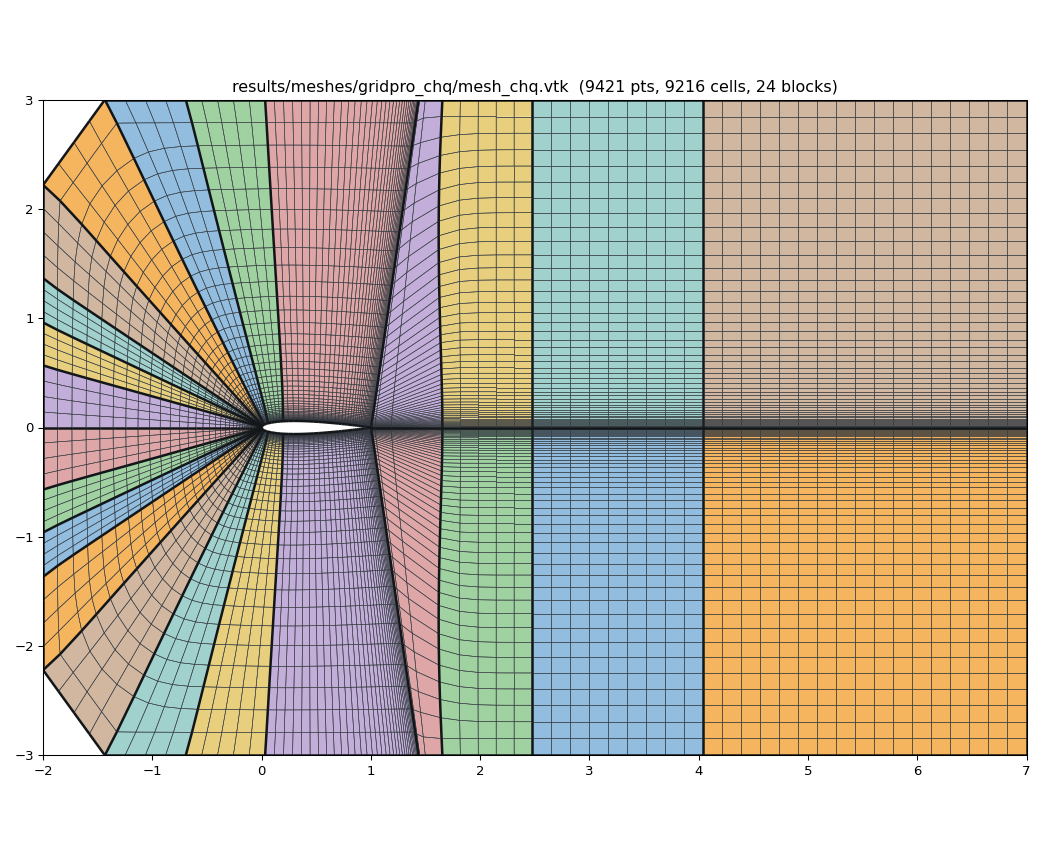
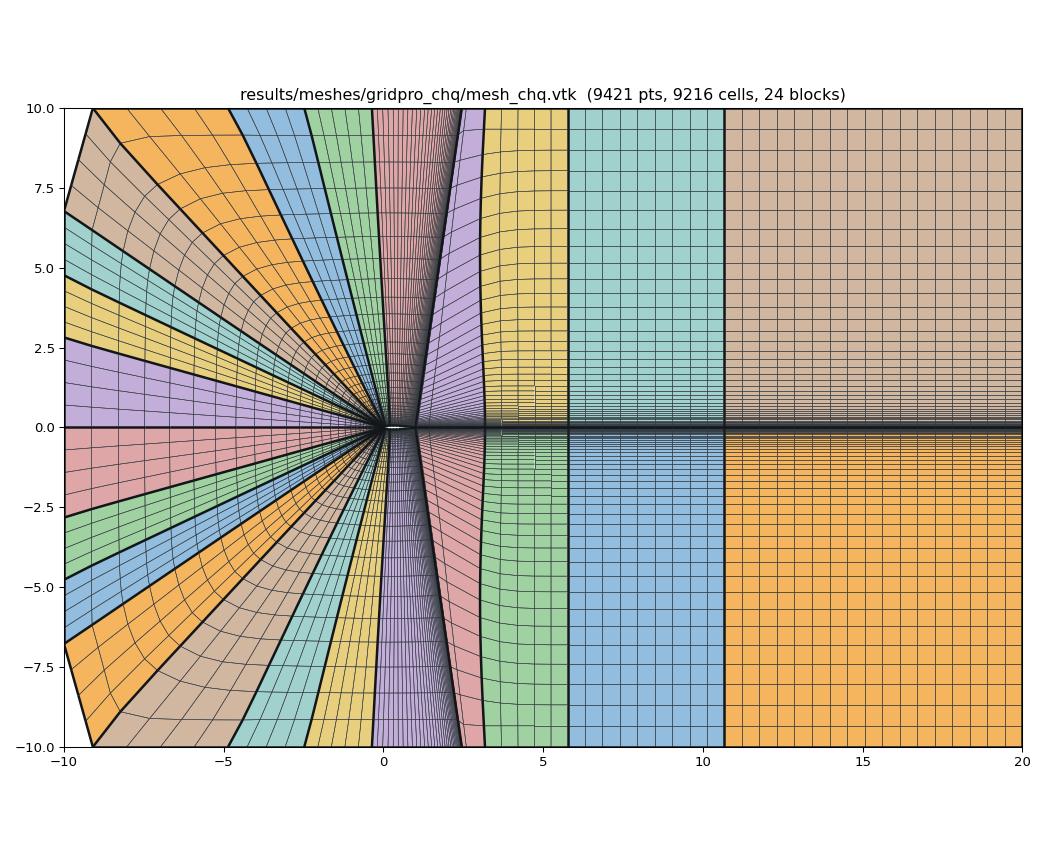
docs: gate 2 on the C/H -- it does not NaN (section 14)
Section 13 was gate 1. The multiblock rule file records that on this repo's
C-grid gate 2 is the one that bit: zero inverted cells on the first run of the
shipped declaration, and the solver then went to NaN in 40 iterations. So the
C/H was run, with the shipped multiblock_cgrid_demo as a control because "the
solver runs" is only worth quoting against something.

It does not NaN. Ten thousand iterations, exit 0, and nothing non-finite in the
solution, the residual history or the surface quantities -- same at 100 and
2000. #57's operating point throughout (laminar NS, M 0.2, Re 200, zero
incidence, cfl 0.6), and since #91 the headless runner derives the .bc.def from
the mesh's own patches, so nothing was hand-edited and the flags come out the
same as the control's: the two aerofoil segments no-slip wall, everything else
non-reflecting. The mesh is the only difference between the runs.

One false positive is recorded so it is not re-found: work/tWall_values.dat.cli
contains the literal NAN in both runs, three fields of its third row. It is a
property of that output file and not of either solve -- the control has it too,
and the control is the run the rule file already records as passing.

The residual does stall. The control descends two orders and holds near 3e-06;
the C/H stops descending after about a thousand iterations and oscillates in a
band about 30x above that, flat over 9000 iterations and never non-finite. Half
[…]

diff --git a/docs/research/gridpro-blocking-method/make_ch.py b/docs/research/gridpro-blocking-method/make_ch.py
@@ -51,7 +51,10 @@ from make_rings import (read_body, arc_table, at_fraction, te_rays,   # noqa: E4
 BODY = "examples/geometries/naca0012_cgrid.dat"
 BODY_NAME = "naca0012_cgrid.dat"
 
-XI, XO, YF = -2.0, 7.0, 3.0     # the far-field rectangle, in chords
+XI, XO, YF = -10.0, 20.0, 10.0  # the far-field rectangle, in chords -- the
+                                # SAME extent as the shipped C-grid case's D,
+                                # because at Re 200 a 9 x 6 box cuts through the
+                                # viscous region and the solve stalls (13g)
 DS_SURF = 0.005                 # the shipped C-grid's surface clustering
 WAKE_GROWTH = 1.9
 CURVED = True                   # radials as the arc that leaves perpendicular               # how fast the wake's own stations spread aft
@@ -413,10 +416,14 @@ def main():
     ap.add_argument("--chord-radials", action="store_true",
                     help="radials as straight chords between their two corners "
                          "instead of the arc that leaves perpendicular")
+    ap.add_argument("--domain", nargs=3, type=float, metavar=("XI", "XO", "YF"),
+                    help="the far-field rectangle, in chords")
     ap.add_argument("--out", default="gridpro_ch.json")
     args = ap.parse_args()
-    global CURVED
+    global CURVED, XI, XO, YF
     CURVED = not args.chord_radials
+    if args.domain:
+        XI, XO, YF = args.domain
     te, rays, sector, blen, topo = build(args.split, args.wake)
     nb = len(topo["blocks"])
     hdr = [

diff --git a/docs/research/gridpro-blocking-method.md b/docs/research/gridpro-blocking-method.md
@@ -121,6 +121,12 @@ entry 2 named `sp.gridpro.com/docs/WS_10.0_Tutorials.zip` as unreachable, and th
 > found on the way are in §13c, including one where **GridPro's own equal-bisection rule
 > cannot be used** — its trailing-edge ray lands behind the next station's and the radials
 > cross.
+>
+> **§14 then put it through the SOLVER — gate 2, the one that bit on this repo's C-grid.** It
+> does **not NaN**: 10000 iterations, exit 0, nothing non-finite, against the shipped C-grid
+> run identically as a control. Its residual does STALL about 30× above the control's floor,
+> and half of that was the domain being too small at Re 200 — measured, 2e-04 at 9×6 chords
+> against 5e-05 at 30×20.
 
 | GridPro | this repo |
 |---|---|
@@ -1680,17 +1686,24 @@ forward along it to the trailing edge, round the lower surface to the nose, back
 upper surface to the trailing edge, and out along the wake to the outlet ABOVE it. **Every
 wake edge is met twice and is ONE edge both times** — that is what makes it a cut and not two
 coincident walls — and the trailing edge is one node on five edges where four blocks meet.
-The eta lines run from that C out to a RECTANGLE (`x ∈ [-2, 7]`, `y ∈ [±3]`).
+The eta lines run from that C out to a RECTANGLE. **Its extent is `x ∈ [-10, 20]`,
+`y ∈ [±10]`, the SAME as the shipped C-grid case's D**, and that is not cosmetic: §14 ran the
+solver on both sizes and a 9 × 6 box at Re 200 cuts through the viscous region and stalls the
+residual four times higher. `--domain XI XO YF` moves it.
 
 Nothing wraps round the front, so the lines leaving the nose point **at the inlet** and the
 lines leaving the wake point at the top and bottom. That is §12a's fig6, and it is a property
 of the topology rather than of any tuning.
 
 ```
-cells=18432 inverted=0 nonortho_max=54.793 nonortho_mean=4.304
-quad_midline_ratio_median=2.648 p95=24.393  adjacent_area_ratio_max=7.813
-wall first cell: 0.09% worst on the BODY, 5.95% worst counting the far-field edges
+cells=18432 inverted=0 nonortho_max=61.529 nonortho_mean=3.908
+quad_midline_ratio_median=3.505 p95=53.608  adjacent_area_ratio_max=14.180
+wall first cell: 0.09% worst on the BODY, 15.72% worst counting the far-field edges
 ```
+
+At the 9 × 6 box §13c was developed on — `--domain -2 7 3`, the extent the O-ring cases' own
+far field is closest to — the same document measures **54.793 / 4.304 / 2.648 / 7.813**, which
+is the row §13e compares with. Both are in the table there.
 
 ### 13b. The map that makes it streamwise: a station's own NORMAL, cast **[V]**
 
@@ -1747,24 +1760,31 @@ the one place where two different parts of the walk have to agree about the same
 
 ### 13d. The figures **[V]**
 
-`gridpro_ch_full.png` and `gridpro_ch_te.png`, rendered as QUADS for §11a's reason. The
+`gridpro_ch_full.png` (the whole 30 × 20 domain) and `gridpro_ch_te.png` (the body and the
+near wake), rendered as QUADS for §11a's reason. `gridpro_ch_M.png` is §14's Mach field. The
 downstream half is a streamwise lattice, the upstream half points at the inlet, the wake is a
 thin band along `y = 0`, and the far field is a rectangle the grid is aligned to — which is
 what §12a set out to reproduce.
 
 ### 13e. Against everything before it **[V]**
 
-| | §8: 14 blk | §10: 58 blk, 3 rings | §11: 38 blk, 2 rings | §13: 24 blk, C/H |
-|---|---|---|---|---|
-| cells | 17408 | 17408 | 17408 | 18432 |
-| inverted | 0 | 0 | 0 | 0 |
-| worst non-orthogonality | 59.856° | 55.277° | **48.095°** | 54.793° |
-| mean non-orthogonality | 12.307° | 9.552° | 7.137° | **4.304°** |
-| cell shape, median | 2.751 | 2.801 | 2.818 | **2.648** |
-| worst adjacent area ratio | 11.713 | 12.565 | 14.149 | **7.813** |
-| worst wall first cell, BODY only | 0.01% | 0.01% | 0.01% | 0.09% |
-| worst wall first cell, ALL wall edges | **0.0139%** | 0.0111% | 0.106% | 5.95% |
-| far field | D of the tutorial's circle | circle | circle | **rectangle** |
+| | §8: 14 blk | §10: 58 blk, 3 rings | §11: 38 blk, 2 rings | §13: C/H, 9×6 box | §13: C/H, SHIPPED 30×20 |
+|---|---|---|---|---|---|
+| cells | 17408 | 17408 | 17408 | 18432 | 18432 |
+| inverted | 0 | 0 | 0 | 0 | 0 |
+| worst non-orthogonality | 59.856° | 55.277° | **48.095°** | 54.793° | 61.529° |
+| mean non-orthogonality | 12.307° | 9.552° | 7.137° | 4.304° | **3.908°** |
+| cell shape, median | 2.751 | 2.801 | 2.818 | **2.648** | 3.505 |
+| worst adjacent area ratio | 11.713 | 12.565 | 14.149 | **7.813** | 14.180 |
+| worst wall first cell, BODY only | 0.01% | 0.01% | 0.01% | 0.09% | 0.09% |
+| worst wall first cell, ALL wall edges | **0.0139%** | 0.0111% | 0.106% | 5.95% | 15.72% |
+| far-field extent, chords | 30 × 20 | 6 × 6 | 6 × 6 | 9 × 6 | 30 × 20 |
+| far field | D of a circle | circle | circle | **rectangle** | **rectangle** |
+
+**The two C/H columns are the same document at two domain sizes**, and only the right-hand one
+is shipped — §14 is why. The middle one is the fair comparison with §§9-11, whose far field is
+the tutorial's r = 3 circle; the §8 column's own far field is already 30 × 20, so it is the
+right-hand C/H column that is comparable with IT.
 
 **The cell counts are not equal** — 18432 against 17408, 5.9% more — because the C/H's station
 law is derived rather than dialled, and the nearest settings either side came out at 17088
@@ -1788,6 +1808,89 @@ this note the answer has not been the O-ring.**
 diverges at sweep 13, so every line here is placed by a declaration rather than solved for.
 Everything else §§9-12 listed as different — the far field's shape, the streamwise lattice, the
 wake band, the block count being in the right range — is now reproduced.
+
+---
+
+## 14. GATE 2: the C/H through the solver
+
+§13 is gate 1 — it meshes, 0 inverted. `.claude/rules/mesher-multiblock.md` records that on
+this repo's C-grid **gate 2 is the one that bit**: zero inverted cells on the first run of the
+shipped declaration, and the solver then went to NaN in 40 iterations. So the C/H was run.
+2026-11-06.
+
+**It does not NaN.** Ten thousand iterations, exit 0, and no NaN or Inf anywhere in the
+solution, the residual history or the surface quantities.
+
+### 14a. How it was run **[V]**
+
+`docs/research/gridpro-blocking-method/gridpro_ch_demo.json` through `./run_pipeline.sh`, at
+**#57's own operating point** — laminar NS, M 0.2, Re 200, zero incidence, `cfl 0.6`,
+`constant_cfl`. The headless runner derives the `.bc.def` from the mesh's own patches (#91),
+so nothing was hand-edited:
+
+```
+segm_no   bc_flag          1 -> 2   the aerofoil's upper surface (no-slip wall)
+        1        2         2 -> 2   its lower surface
+        2        2         3 -> 1   everything else (non-reflecting far field / outflow)
+        3        1
+```
+
+**[V]** That is the SAME flag set the shipped C-grid case gets — its `outlet` and `farfield`
+patches both map to 1 in `services/bnd_io._NAME_TO_FLAG` — so the boundary treatment is not a
+difference between the two runs and the mesh is.
+
+**The control is the shipped `config/pipeline/multiblock_cgrid_demo.json`**, run identically,
+because "the solver runs" is only worth quoting against something.
+
+### 14b. The NaN question, answered **[V]**
+
+| | C/H (24 blocks) | control: shipped C-grid |
+|---|---|---|
+| 100 iterations | exit 0, no NaN | exit 0, no NaN |
+| 2000 iterations | exit 0, no NaN | exit 0, no NaN |
+| **10000 iterations** | **exit 0, no NaN** (159.6 s) | exit 0, no NaN (128.7 s) |
+
+**ONE FALSE POSITIVE, RECORDED SO IT IS NOT RE-FOUND.** `work/tWall_values.dat.cli` contains
+the literal `NAN` in both runs — three fields of its third row. It is a property of that output
+file and not of either solve; **the control has it too**, and the control is the run
+`.claude/rules/mesher-multiblock.md` already records as passing. The files that matter
+(`xtecp_sol_allz.dat.cli`, `unicones.enorm.cli`, `vsurface_qty.dat.cli`, `binDumpZ.dat.cli`)
+are clean in both.
+
+### 14c. BUT THE RESIDUAL STALLS, and the domain was half of why **[V]**
+
+Worst-of-row from `unicones.enorm.cli`, 10000 iterations:
+
+| iteration | 1000 | 2000 | 4000 | 6000 | 8000 | 9000 |
+|---|---|---|---|---|---|---|
+| C/H | 4.71e-05 | 1.13e-04 | 8.96e-05 | 9.34e-05 | 6.23e-05 | 1.01e-04 |
+| control | 5.26e-05 | 8.59e-06 | 4.05e-06 | 1.61e-06 | 3.00e-06 | 2.91e-06 |
+
+The control descends two orders and holds. **The C/H stops descending after about a thousand
+iterations and then oscillates in a band**, roughly 30× above the control's floor. It is not
+diverging — the band is flat over 9000 iterations — and nothing goes non-finite.
+
+**Half of it was the domain, and that is a measurement.** The first C/H shipped a `9 × 6`
+chord box. At Re 200 that cuts through the viscous region, and the residual sat at **2e-04**.
+Opening it to the shipped C-grid's own `30 × 20` took it to **5e-05** — a factor of four — for
+no change to the blocking. That is why §13a's domain is what it is, and why §13e carries both
+columns.
+
+**[I]** What is left is the mesh. The C/H's worst corner is 61.5° against the shipped C-grid's
+29.9°, and its worst adjacent area ratio 14.2; those are the obvious suspects, and this note
+has not separated them. **No claim is made here that the C/H is a better mesh for this solve.**
+What is claimed is the gate: it runs.
+
+### 14d. What is NOT claimed **[I]**
+
+- **Not convergence.** Neither run converges — the control's own floor at 3e-06 is a floor,
+  not a solution, and `docs/research/hermite-wall-normal-fill.md` already records that no
+  shipped case in this repo reaches a settled force at this operating point.
+- **Not accuracy, and no forces are quoted.** A force difference between two unconverged
+  transients drifts with the iteration count; that is the finding of #157 and quoting one here
+  would repeat the mistake it recorded.
+- **Nothing is committed from the runs.** The solver output lives under `results/solver/` like
+  every other run; what is in the tree is the pipeline script that reproduces it.
 
 ---
 
